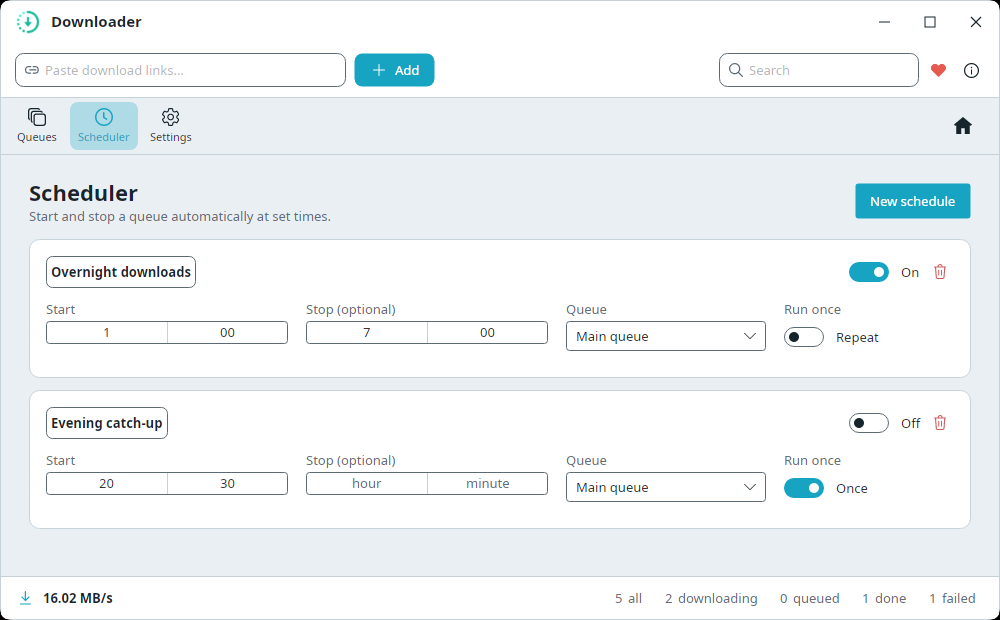
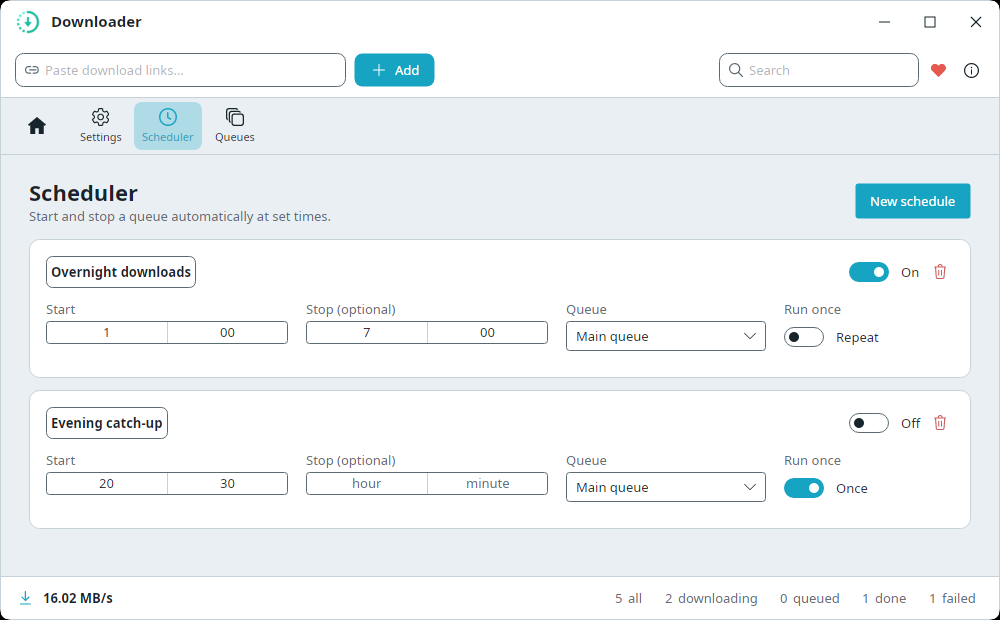
feat(ui): pin page nav left, download actions right in the toolbar
Layout is now a 3-column grid: Home / Settings / Scheduler / Queues pinned to
the left edge, and the downloads-list actions (Start/Pause/Stop/Remove + queue
buttons) pinned to the right edge, still hidden on the Settings/Scheduler/Queues
pages. Screenshots regenerated.

Changed region(s): [[0.0, 0.1532, 0.248, 0.2452], [0.93, 0.1839, 0.992, 0.2145]]

diff --git a/.claude/skills/downloader-desktop/SKILL.md b/.claude/skills/downloader-desktop/SKILL.md
@@ -201,7 +201,7 @@ See `CLAUDE.md` at the repo root for product vision, locked decisions, and the f
 - **NOT YET (Phase 2):** the download-pipeline integration (`JobCoordinator` + multi-part download + the `ITransfer` refactor so the queue/UI drive torrent/HLS uniformly) and the official HLS (yt-dlp+ffmpeg)/torrent plugins. `PluginManager.ResolveAsync` is the ready hook.
 
 ## Round 20 patterns (no-left-nav UI, dialogs, update fixes, expired-link, plugin docs)
-- **NO left nav rail; pages open IN the main window (2026-07-10, superseding the earlier page-dialog model).** `MainWindow`'s central `ContentControl` binds `MainViewModel.CurrentPage`; the three Show*Commands + `ShowDownloadsCommand` call `Navigate(NavSection.X)` (no dialogs — `PageDialogView` + `DialogHelper.ShowPage` + `PageDialogWindowKey` were DELETED). The **action toolbar lives in `MainWindow`** (docked under the top bar, visible on every page): bulk buttons bind through `Downloads.*` (e.g. `{Binding Downloads.StartSelectedCommand}` — null-safe until init, refreshed by `RaisePropertyChanged(nameof(Downloads))`), nav buttons bind directly and highlight the current page via `Classes.selected="{Binding Is*Selected}"` + the `Button.tool.selected` style in App.axaml (translucent `RowSelectionBrush` fill + accent icon/text). The toolbar is a `Grid "*,Auto"`: the downloads-list action cluster (Start/Pause/Stop/Remove + queue buttons, wrapped in a StackPanel `IsVisible="{Binding IsDownloadsSelected}"`) only shows on the Downloads page; the **Home button** (icon-only `HomeRegular`, tooltip `Nav_Downloads` — key in all 16 packs) is **pinned to the right edge** (Grid.Column=1; RTL mirrors it correctly); Queues/Scheduler/Settings keep icon+label on the left. The Add-link dialog closes on **Esc** (same `OnKeyDown` override as DownloadDetailsView; the inline queue-name editor's own Esc handler wins because it marks the event handled first). Only Add-link, Details, About, Update-prompt remain separate windows. Plugins stay a collapsible `Expander` in `SettingView`.
+- **NO left nav rail; pages open IN the main window (2026-07-10, superseding the earlier page-dialog model).** `MainWindow`'s central `ContentControl` binds `MainViewModel.CurrentPage`; the three Show*Commands + `ShowDownloadsCommand` call `Navigate(NavSection.X)` (no dialogs — `PageDialogView` + `DialogHelper.ShowPage` + `PageDialogWindowKey` were DELETED). The **action toolbar lives in `MainWindow`** (docked under the top bar, visible on every page): bulk buttons bind through `Downloads.*` (e.g. `{Binding Downloads.StartSelectedCommand}` — null-safe until init, refreshed by `RaisePropertyChanged(nameof(Downloads))`), nav buttons bind directly and highlight the current page via `Classes.selected="{Binding Is*Selected}"` + the `Button.tool.selected` style in App.axaml (translucent `RowSelectionBrush` fill + accent icon/text). The toolbar is a `Grid "Auto,*,Auto"`: **page nav is pinned LEFT** (Grid.Column=0) — Home (icon-only `HomeRegular`, tooltip `Nav_Downloads` — key in all 16 packs), then Settings, Scheduler, Queues (icon+label); the **downloads-list action cluster** (Start/Pause/Stop/Remove + queue buttons) is **pinned RIGHT** (Grid.Column=2) in a StackPanel `IsVisible="{Binding IsDownloadsSelected}"` so it only shows on the Downloads page. The `*` middle column is the spacer. RTL mirrors both sides correctly. The Add-link dialog closes on **Esc** (same `OnKeyDown` override as DownloadDetailsView; the inline queue-name editor's own Esc handler wins because it marks the event handled first). Only Add-link, Details, About, Update-prompt remain separate windows. Plugins stay a collapsible `Expander` in `SettingView`.
 - **Capture gotcha:** management pages render inside MainWindow — in CaptureScreenshots just `vm.ShowSettingViewCommand.Execute(null)` (etc.) then `Save(window, …)`; return with `vm.ShowDownloadsCommand`. No page dialog to Show/Close anymore.
 - **Auto-update macOS restart loop:** the old swap extracted `Downloader.app` INTO `Contents/MacOS` (nesting) and relaunched the OLD binary → re-detect → loop. `UpdateService.WriteMacScript` now replaces the whole `.app` bundle (`appDir`=`<bundle>.app/Contents/MacOS` → bundle = `appDir/../..`) and relaunches via `open`. NOTE: an update FROM a buggy build still uses that build's broken swap — the fix only helps updates initiated from a fixed build (tell users to manually install once to break the loop). Unverifiable headless.
 - **Update cancel + version:** `UpdateFlow.CancelDownload()` (CancellationTokenSource in `DownloadAsync`; cancel → back to `Available`). Settings shows a × (`DismissRegular`) on the progress bar + `AvailableVersionText` ("vX.Y.Z available", from `UpdateFlow.AvailableTag`).
